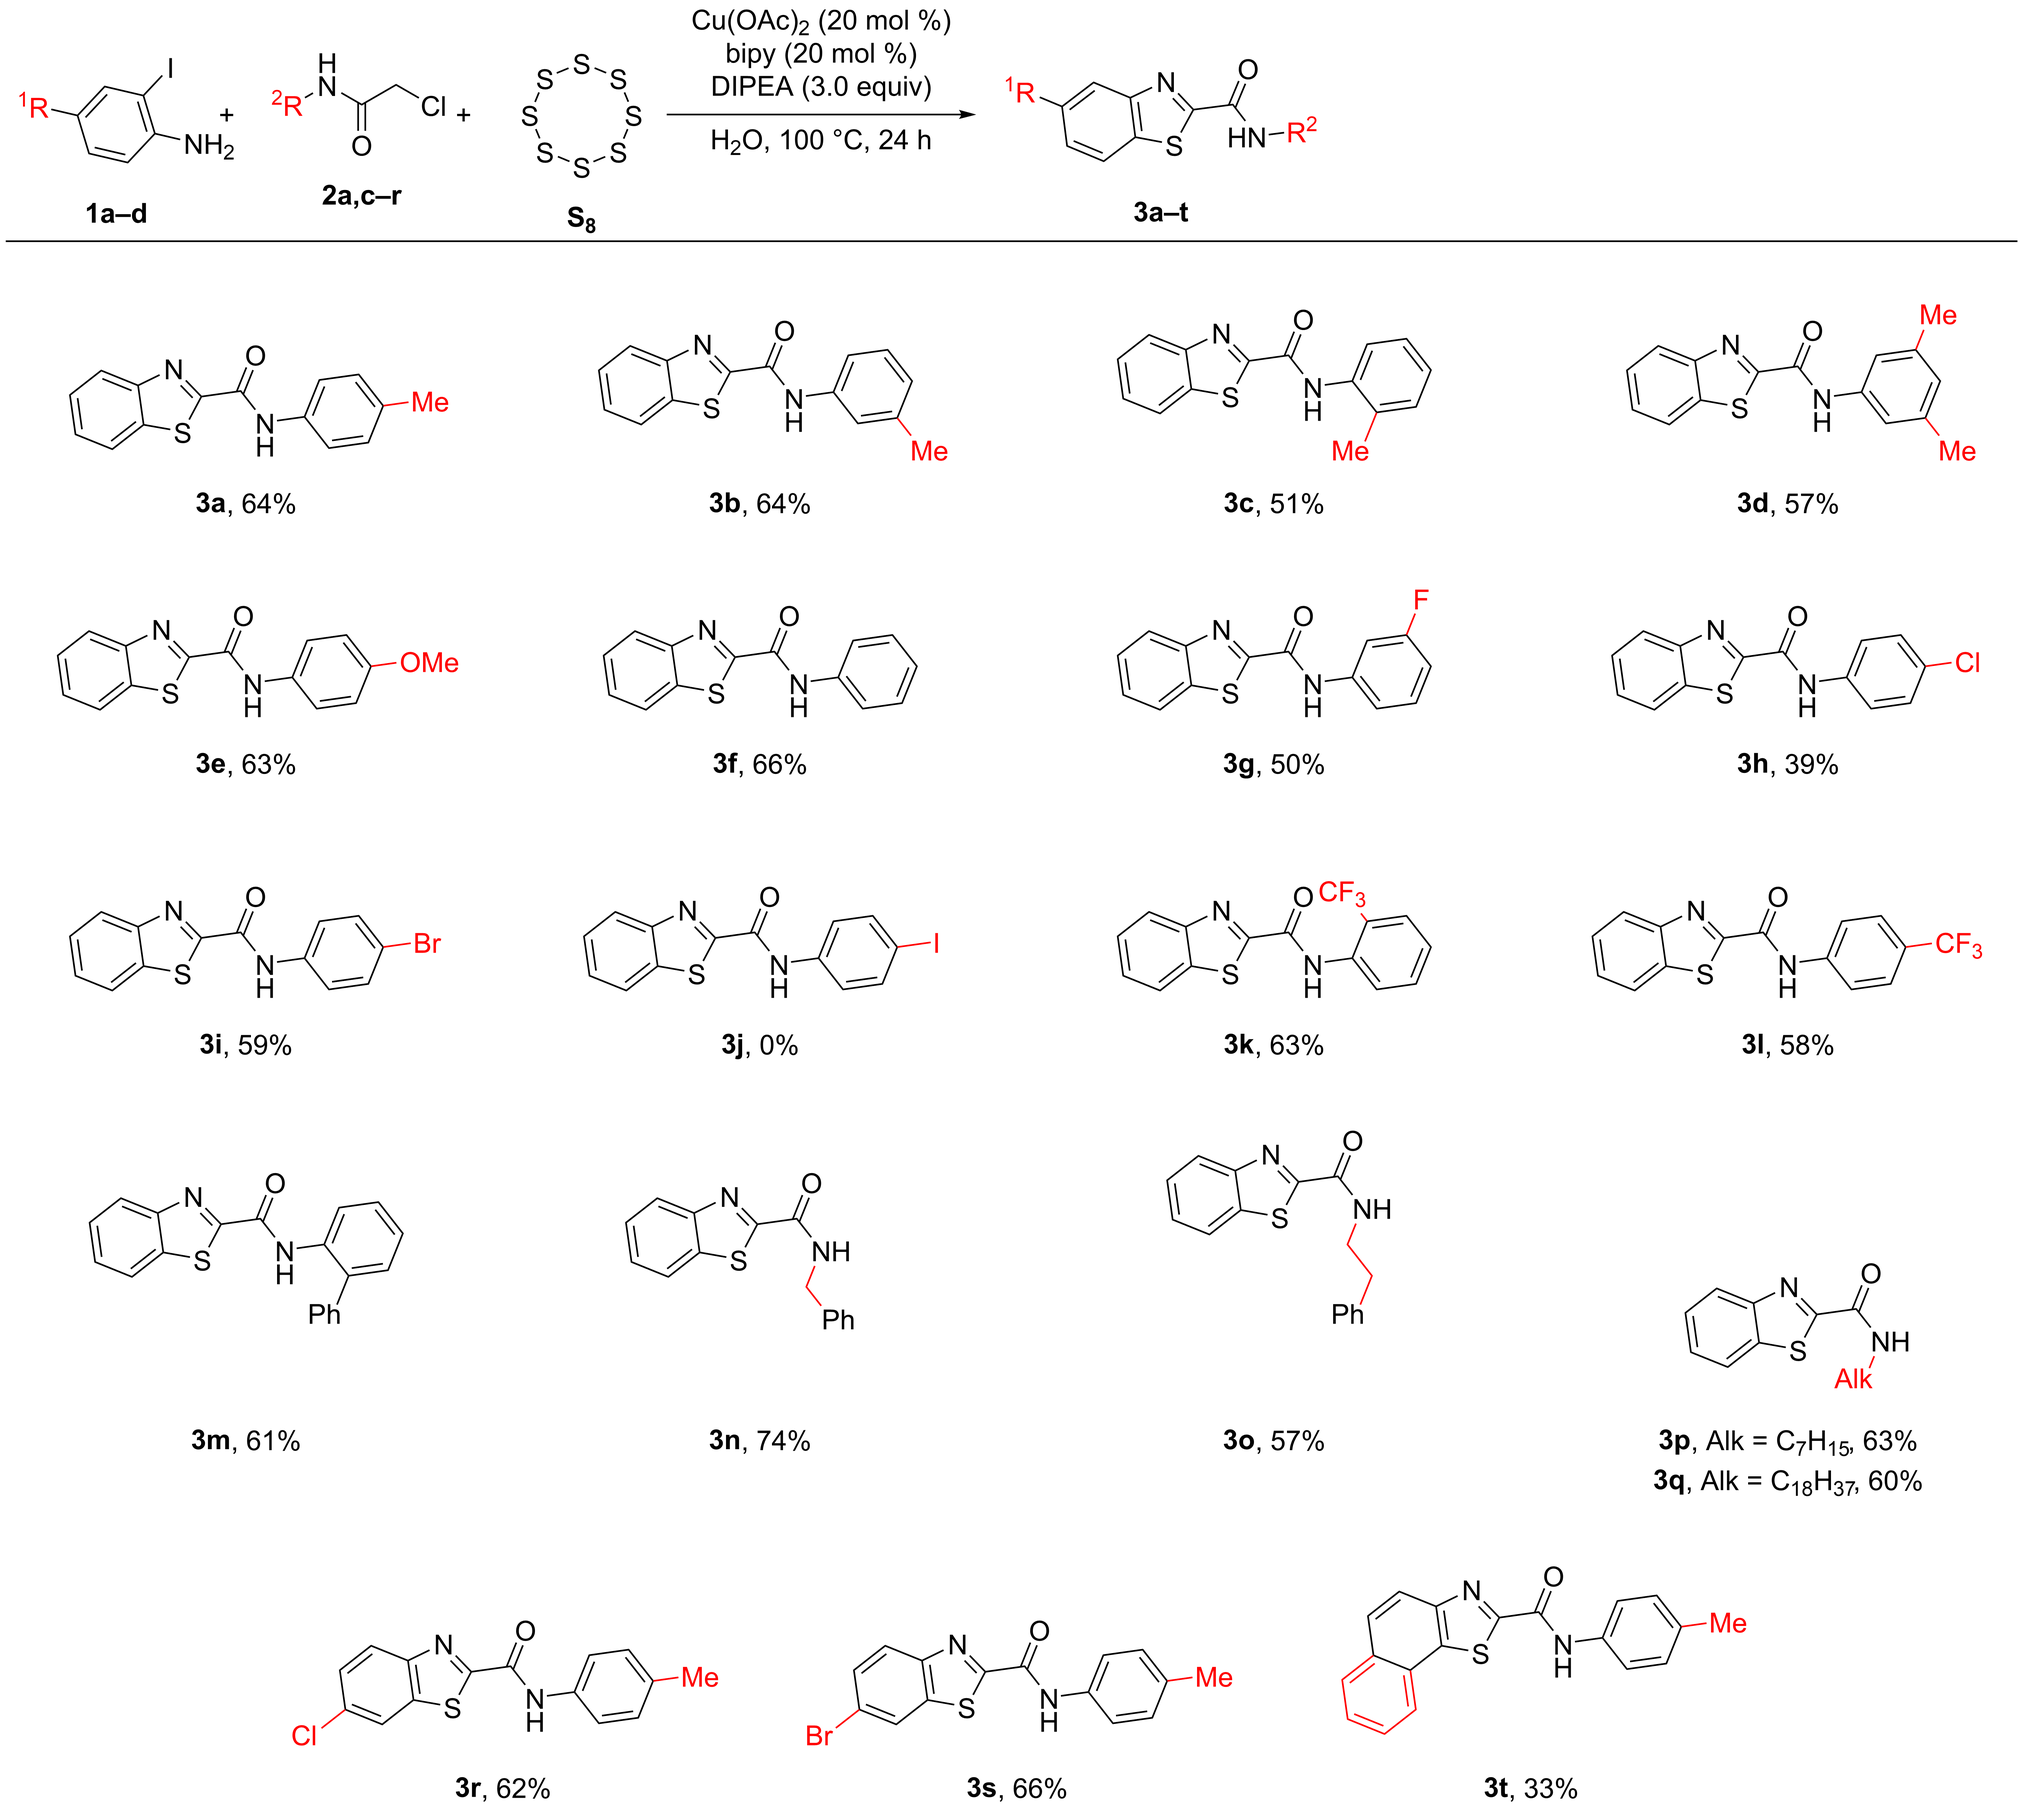
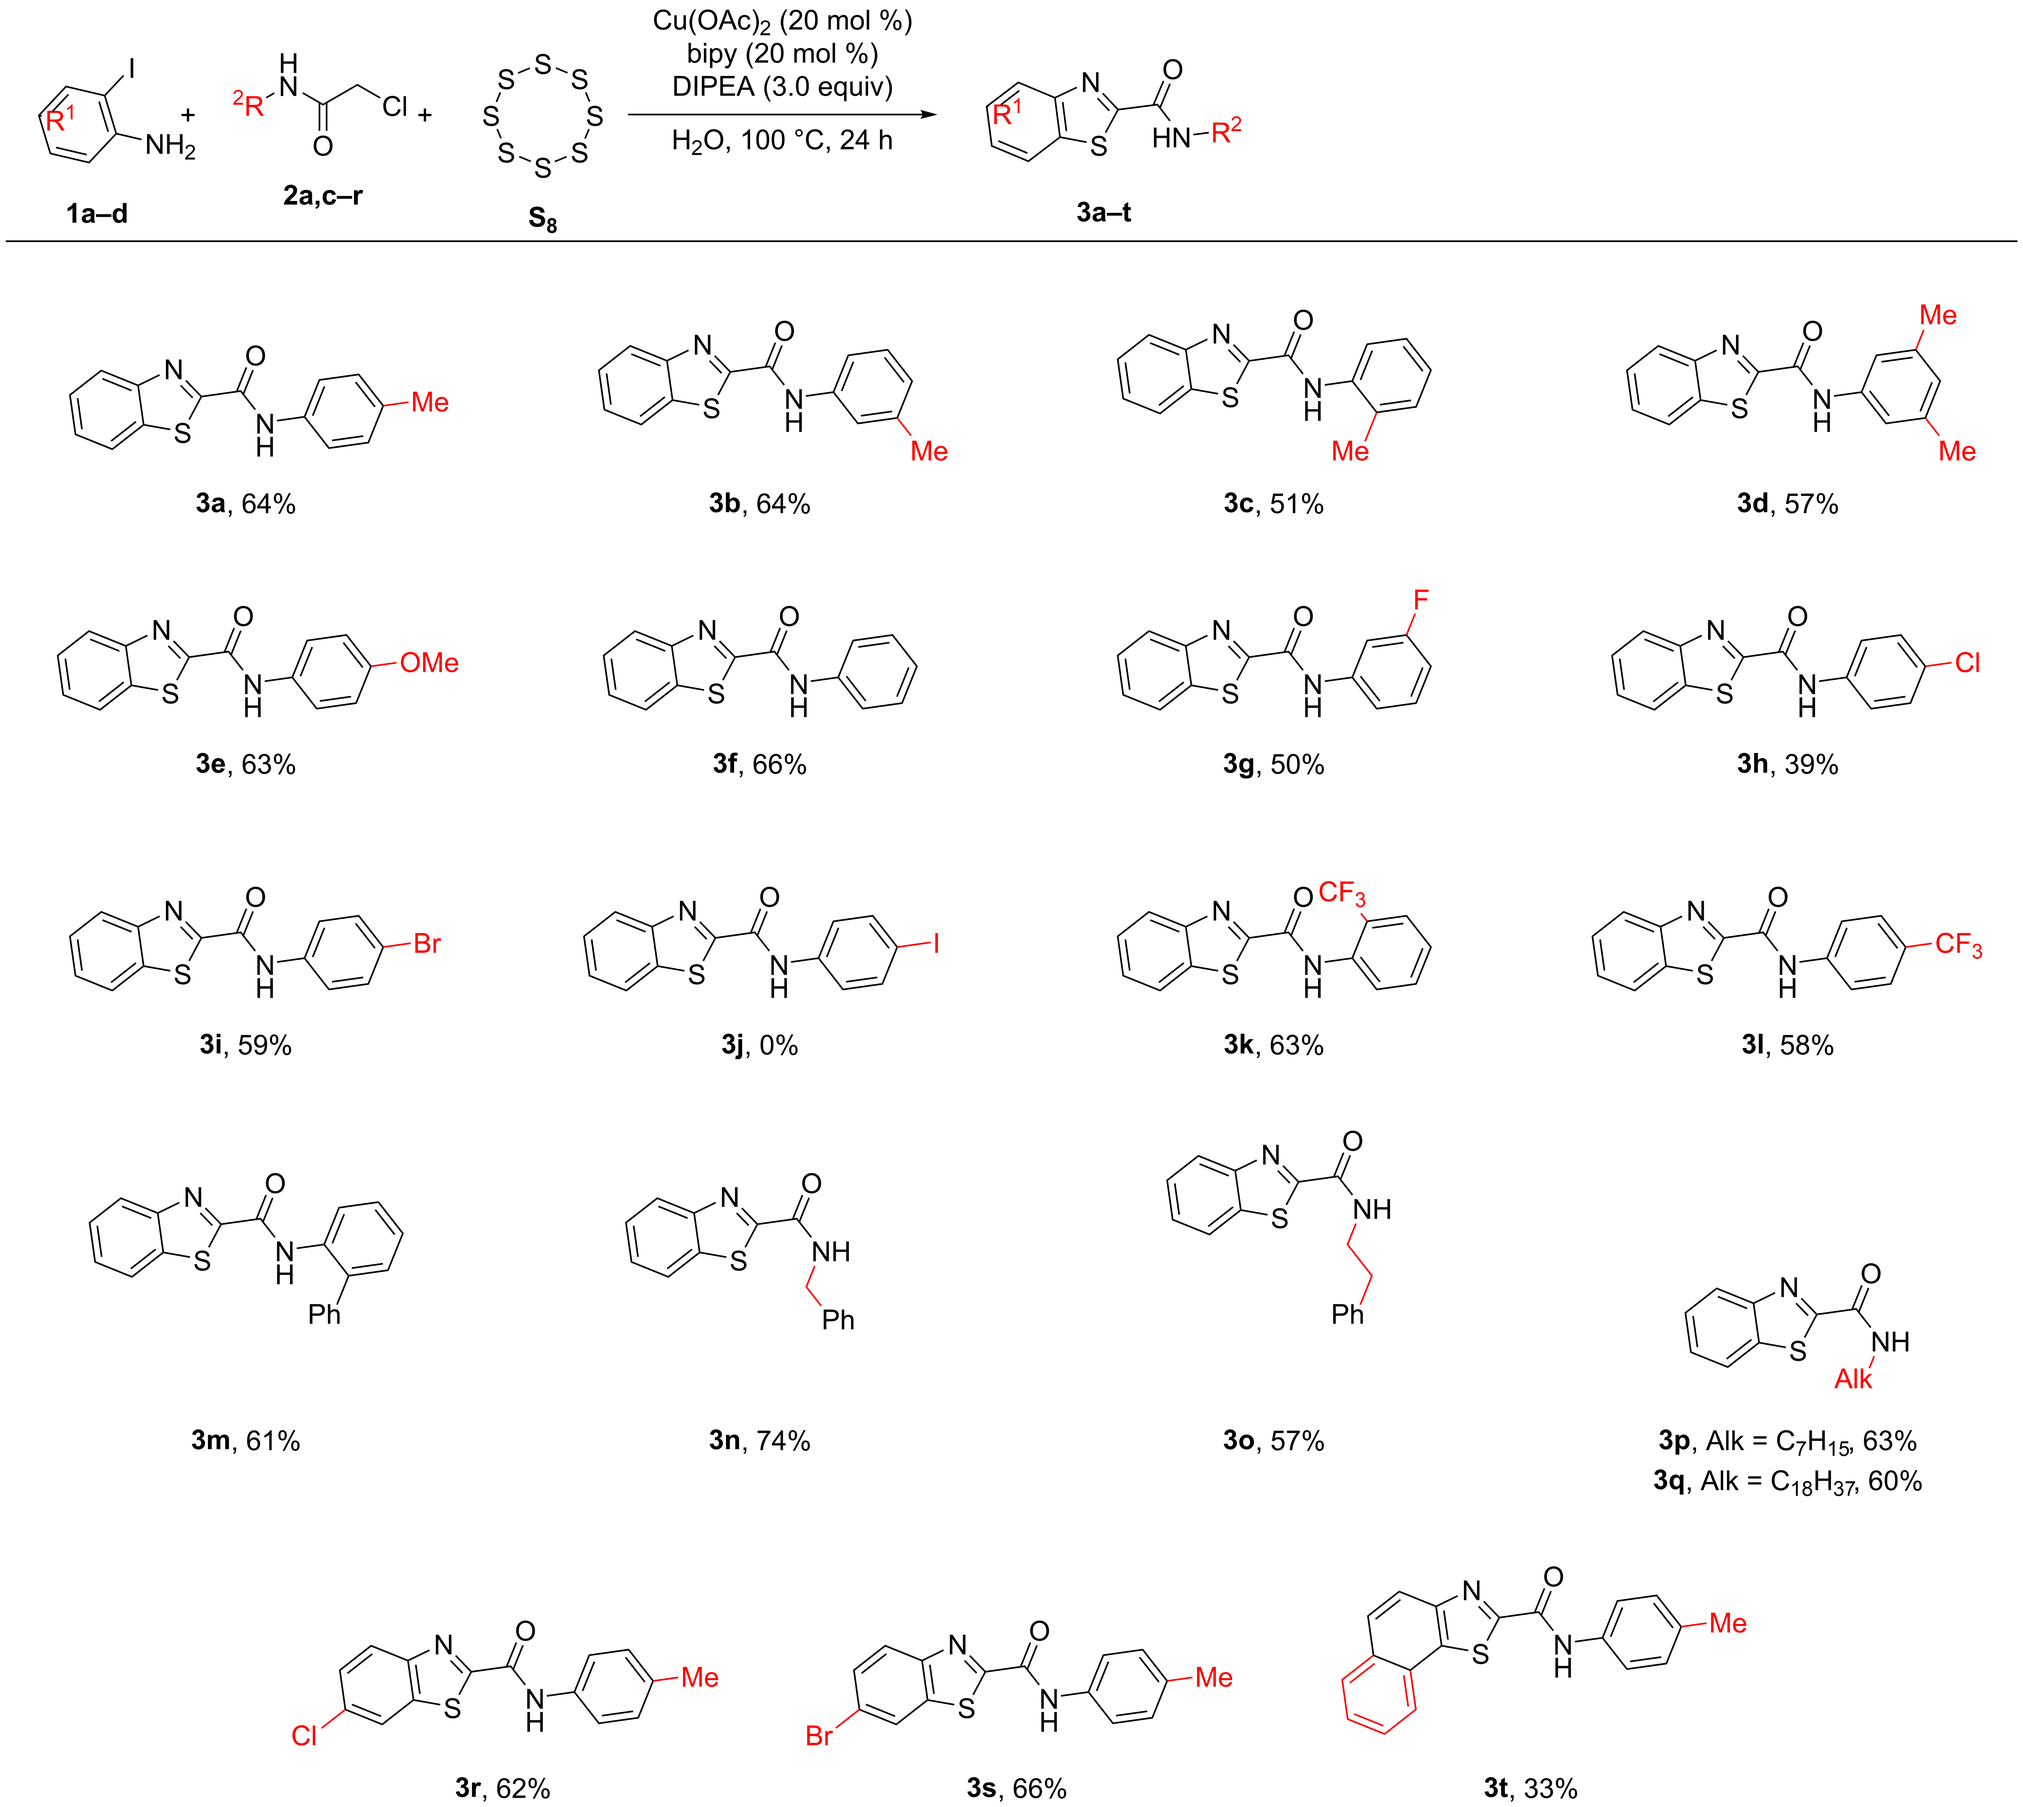
feat(scope): a general scheme writes its R marks inside the ring, on a short stub
The mark keeps its bond and only the distance shrinks, to 0.42 of a bond length towards the ring's
centre, so R1 sits inside the ring as the source figure has it. Nothing about the chemistry changes,
so the readback still matches - the earlier attempt, dropping the bond and parking the mark at the
ring's centre, was refused with chemical_semantics_changed, correctly.

Option `rmark_in_ring` on a scope brief, and the four-column brief uses it. A new test asserts the
mark keeps exactly one bond and sits nearer than 9 pt to it. test_draw_scope 44 passed; toolkit
2718 passed.

diff --git a/toolkit/cdxml_toolkit/publication/layout.py b/toolkit/cdxml_toolkit/publication/layout.py
@@ -307,6 +307,34 @@ def header_identities(spec):
     return found
 
 
+def _r_marks_inside_rings(xy, mol, bond_length):
+    """Pull each R mark to a short stub inside its ring, the way a general scheme writes R1.
+
+    The mark keeps its bond, so the chemistry is untouched; only the distance shrinks, which puts the
+    label inside the ring with a stub instead of a full bond hanging it outside.
+    """
+    rings = mol.GetRingInfo().AtomRings()
+    points = list(xy)
+    for atom in mol.GetAtoms():
+        if atom.GetAtomicNum() != 0:
+            continue
+        neighbours = [n.GetIdx() for n in atom.GetNeighbors()]
+        if len(neighbours) != 1:
+            continue
+        anchor = neighbours[0]
+        ring = next((set(r) for r in rings if anchor in r), None)
+        if not ring:
+            continue
+        cx = sum(points[k][0] for k in ring) / len(ring)
+        cy = sum(points[k][1] for k in ring) / len(ring)
+        ax, ay = points[anchor]
+        dx, dy = cx - ax, cy - ay
+        length = math.hypot(dx, dy) or 1.0
+        stub = 0.42 * float(bond_length)
+        points[atom.GetIdx()] = (ax + dx / length * stub, ay + dy / length * stub)
+    return points
+
+
 def header_objects(spec, style, left, top):
     """The general reaction drawn over a scope grid (BJOC 22-127 scheme 2): substrates joined
     by "+", the arrow with its conditions, the products with their labels. Returns (objects,
@@ -314,6 +342,8 @@ def header_objects(spec, style, left, top):
     header = spec['header']; size = style['font_size']; gap = size * 1.2
     def shape(item, side='substrates'):
         mol, xy, _ = molecule_coordinates(Chem.MolFromSmiles(item['smiles']), style['bond_length'])
+        if spec.get('rmark_in_ring'):
+            xy = _r_marks_inside_rings(xy, mol, style['bond_length'])
         if side == 'products' and float(spec.get('depiction_rotation') or 0):
             # The general reaction above the grid must face the same way as the cells below it.
             angle=math.radians(float(spec.get('depiction_rotation')))

diff --git a/toolkit/tests/runtime/test_draw_scope.py b/toolkit/tests/runtime/test_draw_scope.py
@@ -450,3 +450,25 @@ def test_depiction_rotation_turns_the_whole_table(tmp_path):
 
     change = abs((n_to_s_angle(straight) - n_to_s_angle(turned) + 180) % 360 - 180)
     assert 150 < change < 210, change
+
+def test_a_general_reaction_can_pull_its_r_marks_inside_the_rings(tmp_path):
+    # The general scheme writes R1 inside the ring it varies, on a short stub. The bond stays, so the
+    # chemistry is untouched - only the distance shrinks from a whole bond length to a stub.
+    brief = _brief(rmark_in_ring=True, header={
+        "substrates": [{"smiles": "c1ccc([*:1])cc1", "label": "1"}],
+        "products": [{"smiles": "Cc1ccc([*:1])cc1", "label": "3"}]})
+    report = draw_figure(brief, output_path=str(tmp_path / "inside"))
+    assert report["ok"] is True, report
+    (root,) = _pages(report)
+    where = {n.get("id"): [float(v) for v in n.get("p").split()[:2]]
+             for n in root.iter("n") if n.get("p")}
+    marks = [n for n in root.iter("n") if n.get("NodeType") == "GenericNickname"]
+    assert marks, "no R mark was drawn"
+    for mark in marks:
+        bonds = [b for b in root.iter("b") if mark.get("id") in (b.get("B"), b.get("E"))]
+        assert len(bonds) == 1, "the R mark keeps exactly one bond"
+        bond = bonds[0]
+        other = bond.get("E") if bond.get("B") == mark.get("id") else bond.get("B")
+        mx, my = where[mark.get("id")]
+        ox, oy = where[other]
+        assert math.hypot(mx - ox, my - oy) < 9.0, "the mark is still a whole bond length away"

diff --git a/toolkit/cdxml_toolkit/mcp_runtime/figure_scope.py b/toolkit/cdxml_toolkit/mcp_runtime/figure_scope.py
@@ -29,7 +29,7 @@ from .figure_draw import (
 from ..chemdraw.style_presets import DEFAULT_STYLE_PRESET, style_preset_as_manifest_style
 
 SCOPE_KEYS = {"kind", "species", "fields", "conditions", "footnotes", "title", "style", "width_mm", "height_mm",
-              "highlight_varying", "header", "columns", "depiction_rotation"}
+              "highlight_varying", "header", "columns", "depiction_rotation", "rmark_in_ring"}
 HEADER_KEYS = {"substrates", "products", "above", "below"}
 HIGHLIGHT = "#FF6600"  # the house orange, already in the default check palette
 SPECIES_STYLE = ("color", "atom_colors", "bond_colors", "abbreviate")
@@ -405,6 +405,7 @@ def _write_inputs(work: Path, brief: dict, grounded: list[dict], fields: list[di
         # Turns the reference depiction of the whole table, so a benzothiazole can sit on the left
         # where the source figure has it rather than on the right where RDKit puts it.
         **({"depiction_rotation": brief["depiction_rotation"]} if brief.get("depiction_rotation") else {}),
+        **({"rmark_in_ring": True} if brief.get("rmark_in_ring") else {}),
     }
     path = work / "spec.json"
     path.write_text(json.dumps(spec, ensure_ascii=False), encoding="utf-8")

diff --git a/toolkit/docs/reviewed-exclusions-inventory.md b/toolkit/docs/reviewed-exclusions-inventory.md
@@ -422,7 +422,7 @@
 
 ## `mcp_runtime.figure_scope`
 
-- **function**, line 437: `draw_scope(brief: dict, output_path: str | None, render: bool) -> dict` - Draw a scope panel; called by draw_figure for ``kind: scope``.
+- **function**, line 438: `draw_scope(brief: dict, output_path: str | None, render: bool) -> dict` - Draw a scope panel; called by draw_figure for ``kind: scope``.
 
 ## `mcp_runtime.figure_tools`
 
@@ -678,25 +678,30 @@
 
 ## `publication.layout`
 
-- **function**, line 718: `bounds(node, style)` - No public docstring in the audited version.
+- **function**, line 748: `bounds(node, style)` - No public docstring in the audited version.
 - **function**, line 162: `caption_runs(text, bold = False)` - (the text as it reads, runs or None) for a caption line.
-- **function**, line 748: `check_pages(project, roots, spec)` - No public docstring in the audited version.
+- **function**, line 778: `check_pages(project, roots, spec)` - No public docstring in the audited version.
 - **function**, line 223: `chemical_runs(text)` - Runs for a caption or conditions line whose formula digits are subscripts.
-- **function**, line 458: `create_pages(records, spec, stage, start_index = 0)` - No public docstring in the audited version.
+- **function**, line 488: `create_pages(records, spec, stage, start_index = 0)` - No public docstring in the audited version.
 - **function**, line 29: `font_for(style, size = None, bold = False)` - No public docstring in the audited version.
 - **function**, line 59: `fragment_mol(fragment)` - No public docstring in the audited version.
 - **function**, line 298: `header_identities(spec)` - What the header scheme draws, as the page check counts structures (R numbers removed).
-- **function**, line 310: `header_objects(spec, style, left, top)` - The general reaction drawn over a scope grid (BJOC 22-127 scheme 2): substrates joined by "+", the arrow with its conditions, the products with their labels. Returns (objects, bottom, right).
+- **function**, line 338: `header_objects(spec, style, left, top)` - The general reaction drawn over a scope grid (BJOC 22-127 scheme 2): substrates joined by "+", the arrow with its conditions, the products with their labels. Returns (objects, bottom, right).
 - **function**, line 193: `heading_runs(text)` - A group's name with only its locants in italic: *para* substituents, *N*-heterocycles.
 - **function**, line 261: `label_group(mol, definition)` - The substituent a definition names, to be drawn as its label: {label, atoms, outside}.
 - **function**, line 70: `molecule_coordinates(mol, bond_length, reference = None)` - No public docstring in the audited version.
 - **function**, line 66: `node_text(node)` - No public docstring in the audited version.
-- **function**, line 744: `overlap(a, b)` - No public docstring in the audited version.
+- **function**, line 774: `overlap(a, b)` - No public docstring in the audited version.
 - **function**, line 248: `parse_definition(text)` - (label, {element: count}) for a definition such as "Alk = C7H15", else None.
-- **function**, line 374: `prepare(records, spec)` - No public docstring in the audited version.
+- **function**, line 404: `prepare(records, spec)` - No public docstring in the audited version.
 - **function**, line 17: `style_settings(spec)` - No public docstring in the audited version.
 - **function**, line 42: `text_width(value, style, size = None, bold = False)` - No public docstring in the audited version.
 - **function**, line 47: `wrap(value, width, style)` - No public docstring in the audited version.
+
+## `publication.relief`
+
+- **function**, line 73: `clearance(mol, xy, size = 10.0, scale = 1.0)` - (least label-to-ink distance, the atom whose label is closest) or (TIGHT, None).
+- **function**, line 131: `relieve(mol, xy, size = 10.0, scale = 1.0, steps = (60, -60, 120, -120, 180))` - New points with the branch of the tightest label turned, when that helps.
 
 ## `publication.update`
 

diff --git a/skill/chemdraw/references/toolkit-public-inventory.md b/skill/chemdraw/references/toolkit-public-inventory.md
@@ -3,7 +3,7 @@
 > Generated by `scripts/audit_toolkit_interfaces.py`. Do not hand-edit.
 > Load one shard or search by symbol. Do not load every shard for routine work.
 
-Total audited public symbols: **1316**.
+Total audited public symbols: **1318**.
 
 | Domain shard | Symbols | Curated guidance |
 | --- | ---: | --- |
@@ -14,5 +14,5 @@ Total audited public symbols: **1316**.
 | [inventory/office-chemdraw.md](inventory/office-chemdraw.md) | 146 | [toolkit-office-chemdraw-interfaces.md](toolkit-office-chemdraw-interfaces.md) |
 | [inventory/perception-image.md](inventory/perception-image.md) | 131 | [toolkit-perception-image-interfaces.md](toolkit-perception-image-interfaces.md) |
 | [inventory/render-layout.md](inventory/render-layout.md) | 95 | [toolkit-render-layout-interfaces.md](toolkit-render-layout-interfaces.md) |
-| `toolkit/docs/reviewed-exclusions-inventory.md` (repository only) | 561 | `toolkit/docs/reviewed-exclusions.md` |
+| `toolkit/docs/reviewed-exclusions-inventory.md` (repository only) | 563 | `toolkit/docs/reviewed-exclusions.md` |
 | [inventory/tools.md](inventory/tools.md) | 19 | [toolkit-tools.md](toolkit-tools.md) |

diff --git a/docs/journal-figure-parity.md b/docs/journal-figure-parity.md
@@ -580,7 +580,14 @@ caption pitch) makes `test_cell_geometry_leaves_the_structure_box_clear_of_its_c
 current values are the least the page checker accepts. The header therefore fits by making the page
 taller (`height_mm: 300`), not by tightening the grid — and a page that tall is 300 mm, longer than
 A4, which is worth knowing before asking for both a header and a 240 mm page.
-### P46 — A general reaction's R mark sits inside the ring it varies
+### P46 — A general reaction's R mark sits inside the ring it varies  (done: short stub)
+
+Resolved by keeping the bond and shrinking it: the mark moves to 0.42 of a bond length towards the
+ring's centre, so `R1` is written inside the ring on a short stub, which is what the source figure
+shows. Chemistry is untouched, so the readback still matches; the earlier attempt (drop the bond,
+put the mark at the centre) was refused with `chemical_semantics_changed` and was the wrong design.
+
+
 
 The source figure writes `R1` at the centre of the ring whose substitution varies, with no bond: a
 label hung off one bond reads as a single fixed position.
